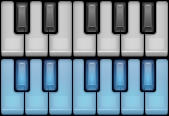
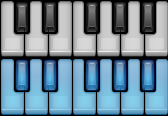
Use new keyboard artwork

diff --git a/source/widgets/pixmapkeyboard.py b/source/widgets/pixmapkeyboard.py
@@ -25,33 +25,33 @@ from PyQt4.QtGui import QColor, QFont, QPainter, QPixmap, QScrollArea, QWidget
 # ------------------------------------------------------------------------------------------------------------
 
 kMidiKey2RectMapHorizontal = {
-    '0':  QRectF(0,   0, 17, 59), # C
-    '1':  QRectF(13,  0,  8, 41), # C#
-    '2':  QRectF(17,  0, 17, 59), # D
-    '3':  QRectF(31,  0,  8, 41), # D#
-    '4':  QRectF(34,  0, 17, 59), # E
-    '5':  QRectF(51,  0, 17, 59), # F
-    '6':  QRectF(63,  0,  8, 41), # F#
-    '7':  QRectF(68,  0, 17, 59), # G
-    '8':  QRectF(81,  0,  8, 41), # G#
-    '9':  QRectF(85,  0, 17, 59), # A
-    '10': QRectF(99,  0,  8, 41), # A#
-    '11': QRectF(102, 0, 17, 59)  # B
+    '0':  QRectF(0,   0, 24, 57), # C
+    '1':  QRectF(14,  0, 15, 33), # C#
+    '2':  QRectF(24,  0, 24, 57), # D
+    '3':  QRectF(42,  0, 15, 33), # D#
+    '4':  QRectF(48,  0, 24, 57), # E
+    '5':  QRectF(72,  0, 24, 57), # F
+    '6':  QRectF(84,  0, 15, 33), # F#
+    '7':  QRectF(96,  0, 24, 57), # G
+    '8':  QRectF(112, 0, 15, 33), # G#
+    '9':  QRectF(120, 0, 24, 57), # A
+    '10': QRectF(140, 0, 15, 33), # A#
+    '11': QRectF(144, 0, 24, 57)  # B
 }
 
 kMidiKey2RectMapVertical = {
-    '11': QRectF(0,  0,  59, 17), # B
-    '10': QRectF(0, 11,  41,  8), # A#
-    '9':  QRectF(0, 16,  59, 17), # A
-    '8':  QRectF(0, 29,  41,  8), # G#
-    '7':  QRectF(0, 33,  59, 18), # G
-    '6':  QRectF(0, 47,  41,  8), # F#
-    '5':  QRectF(0, 50,  59, 17), # F
-    '4':  QRectF(0, 67,  59, 17), # E
-    '3':  QRectF(0, 79,  41,  8), # D#
-    '2':  QRectF(0, 84,  59, 17), # D
-    '1':  QRectF(0, 97,  41,  8), # C#
-    '0':  QRectF(0, 101, 59, 17)  # C
+    '11': QRectF(0,  0,  57, 24), # B
+    '10': QRectF(0, 13,  33, 15), # A#
+    '9':  QRectF(0, 24,  57, 24), # A
+    '8':  QRectF(0, 41,  33, 15), # G#
+    '7':  QRectF(0, 48,  57, 24), # G
+    '6':  QRectF(0, 69,  33, 15), # F#
+    '5':  QRectF(0, 72,  57, 24), # F
+    '4':  QRectF(0, 96,  57, 24), # E
+    '3':  QRectF(0, 111, 33, 15), # D#
+    '2':  QRectF(0, 120, 57, 24), # D
+    '1':  QRectF(0, 139, 33, 15), # C#
+    '0':  QRectF(0, 144, 57, 24)  # C
 }
 
 kMidiKeyboard2KeyMap = {
@@ -107,7 +107,11 @@ class PixmapKeyboard(QWidget):
 
         self.fEnabledKeys = []
 
-        self.fFont   = QFont("Monospace", 7, QFont.Normal)
+        self.fFont = self.font()
+        self.fFont.setFamily("Monospace")
+        self.fFont.setPixelSize(12)
+        self.fFont.setBold(True)
+
         self.fPixmap = QPixmap("")
 
         self.setCursor(Qt.PointingHandCursor)
@@ -183,12 +187,12 @@ class PixmapKeyboard(QWidget):
 
     def handleMousePos(self, pos):
         if self.fPixmapMode == self.HORIZONTAL:
-            if pos.x() < 0 or pos.x() > self.fOctaves * 119:
+            if pos.x() < 0 or pos.x() > self.fOctaves * self.fWidth:
                 return
             octave = int(pos.x() / self.fWidth)
             keyPos = QPointF(pos.x() % self.fWidth, pos.y())
         elif self.fPixmapMode == self.VERTICAL:
-            if pos.y() < 0 or pos.y() > self.fOctaves * 119:
+            if pos.y() < 0 or pos.y() > self.fOctaves * self.fHeight:
                 return
             octave = int(self.fOctaves - pos.y() / self.fHeight)
             keyPos = QPointF(pos.x(), (pos.y()-1) % self.fHeight)
@@ -425,9 +429,9 @@ class PixmapKeyboard(QWidget):
 
         for i in range(self.fOctaves):
             if self.fPixmapMode == self.HORIZONTAL:
-                painter.drawText(i * 119 + (2 if i == 0 else 1), 45, 16, 16, Qt.AlignCenter, "C%i" % (i-1))
+                painter.drawText(i * 168 + (4 if i == 0 else 3), 35, 20, 20, Qt.AlignCenter, "C%i" % (i-1))
             elif self.fPixmapMode == self.VERTICAL:
-                painter.drawText(44, (self.fOctaves * 119) - (i * 119) - 16, 16, 16, Qt.AlignCenter, "C%i" % (i-1))
+                painter.drawText(33, (self.fOctaves * 168) - (i * 168) - 20, 20, 20, Qt.AlignCenter, "C%i" % (i-1))
 
     def _isNoteBlack(self, note):
         baseNote = note % 12
@@ -475,7 +479,8 @@ if __name__ == '__main__':
     app = QApplication(sys.argv)
 
     gui = PixmapKeyboard(None)
-    gui.setMode(gui.VERTICAL)
+    gui.setMode(gui.HORIZONTAL)
+    #gui.setMode(gui.VERTICAL)
     gui.setEnabled(True)
     gui.show()
 
